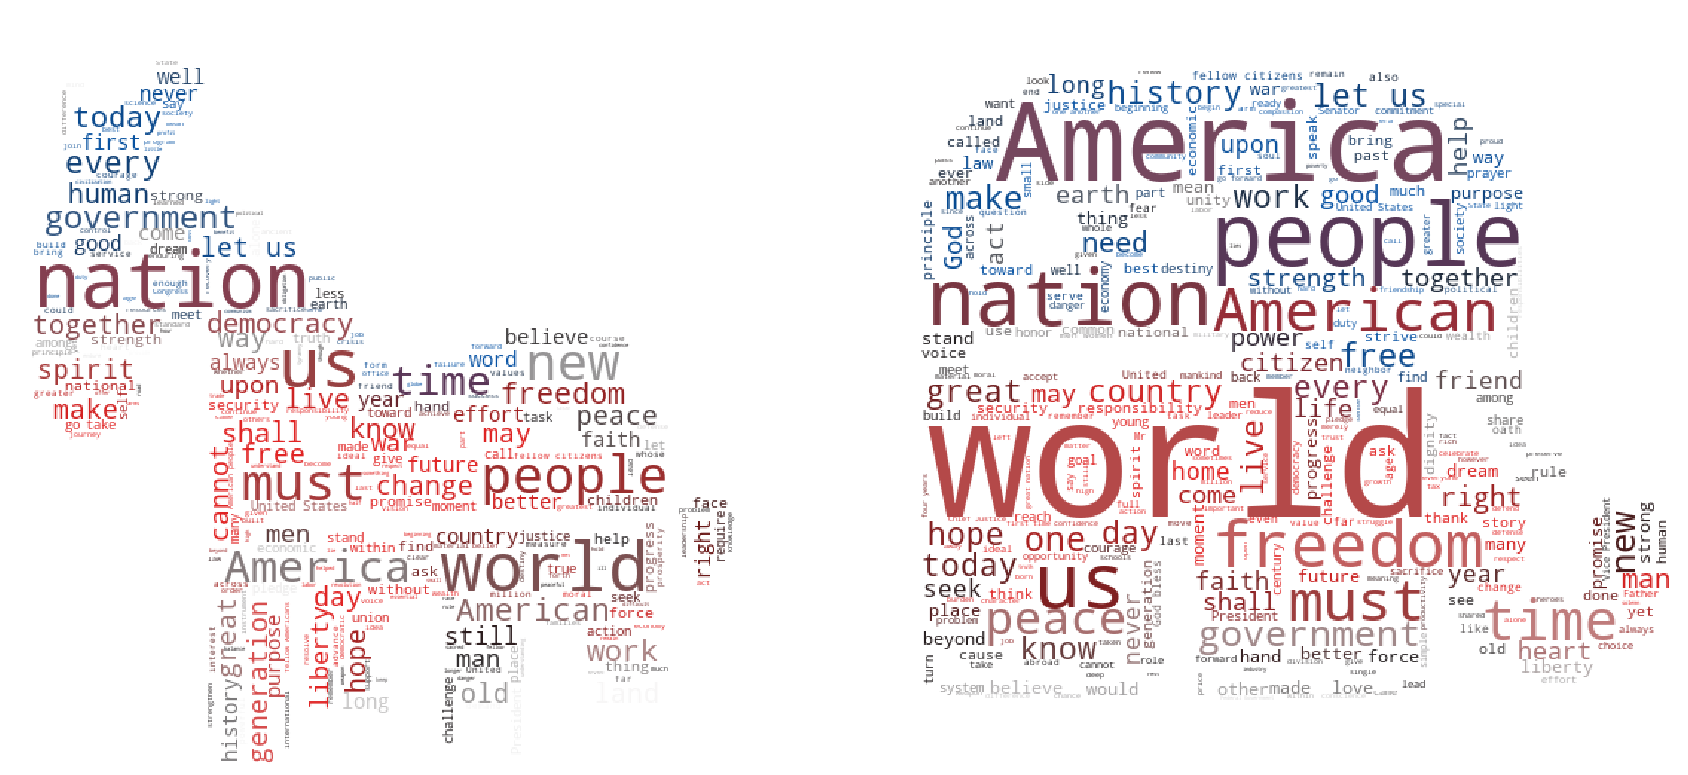
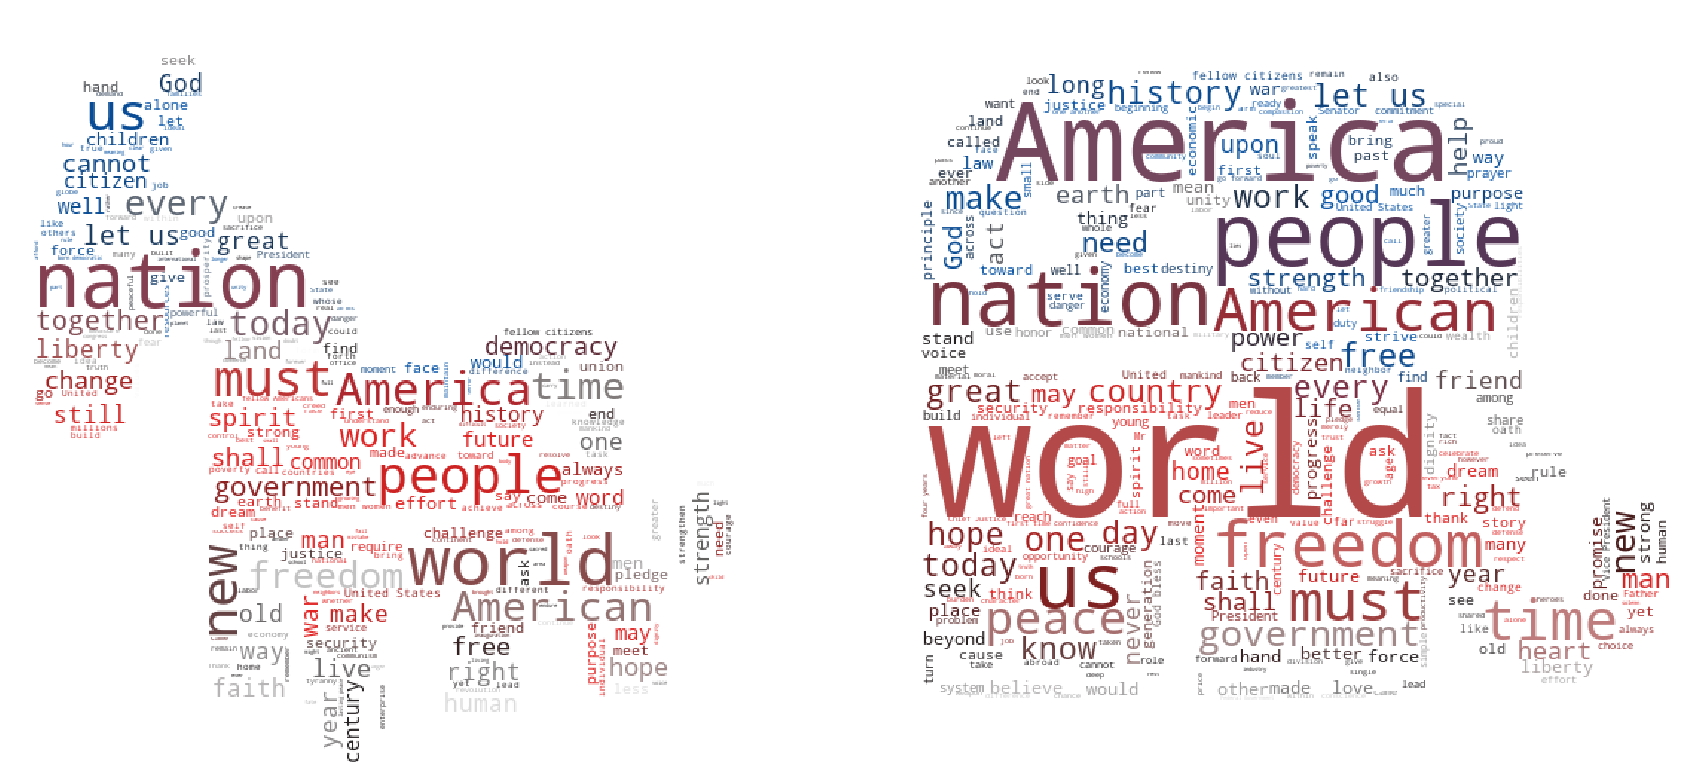
Change graphs

Changed region(s): [[0.0, 0.0619, 0.4313, 0.991]]

diff --git a/index.html b/index.html
@@ -113,7 +113,7 @@
         <div class="row">
           <div class="col-6">
             <h3 class="section-title">Democrat</h3>
-            <iframe style='width: 500px; height: 500px;' src='https://voyant-tools.org/tool/CorpusTerms/?corpus=04b386ac28900dcb1a8494d09cd64b01'></iframe>
+            <iframe style='width: 500px; height: 500px;' src='https://voyant-tools.org/tool/CorpusTerms/?corpus=e102812993bf356fe4b92a85db2def78'></iframe>
           </div>
 
           <div class="col-6">
@@ -134,7 +134,7 @@
         <div class="row">
           <div class="col-6">
             <h3 class="section-title">Democrat</h3>
-            <iframe style='width: 500px; height: 440px;' src='https://voyant-tools.org/tool/Trends/?query=new&query=people&query=world&query=nation&query=america&mode=&chartType=stacked&corpus=19785800306071dc8e684784918c02e6'></iframe>
+            <iframe style='width: 500px; height: 440px;' src='https://voyant-tools.org/tool/Trends/?query=new&query=world&query=people&query=nation&query=america&chartType=stacked&corpus=e102812993bf356fe4b92a85db2def78'></iframe>
           </div>
 
           <div class="col-6">
@@ -155,7 +155,7 @@
         <div class="row">
           <div class="col-16">
             <h3 class="section-title">Democrat</h3>
-            <iframe style='width: 1075px; height: 440px;' src='https://voyant-tools.org/?view=ScatterPlot&corpus=71f87ebb94b86c30443a20693e652e8a'></iframe>
+            <iframe style='width: 1075px; height: 440px;' src='https://voyant-tools.org/tool/ScatterPlot/?view=ScatterPlot&limit=60&corpus=d63242672345f8cf467e257935edb419'></iframe>
           </div>
 
           <div class="col-16">
